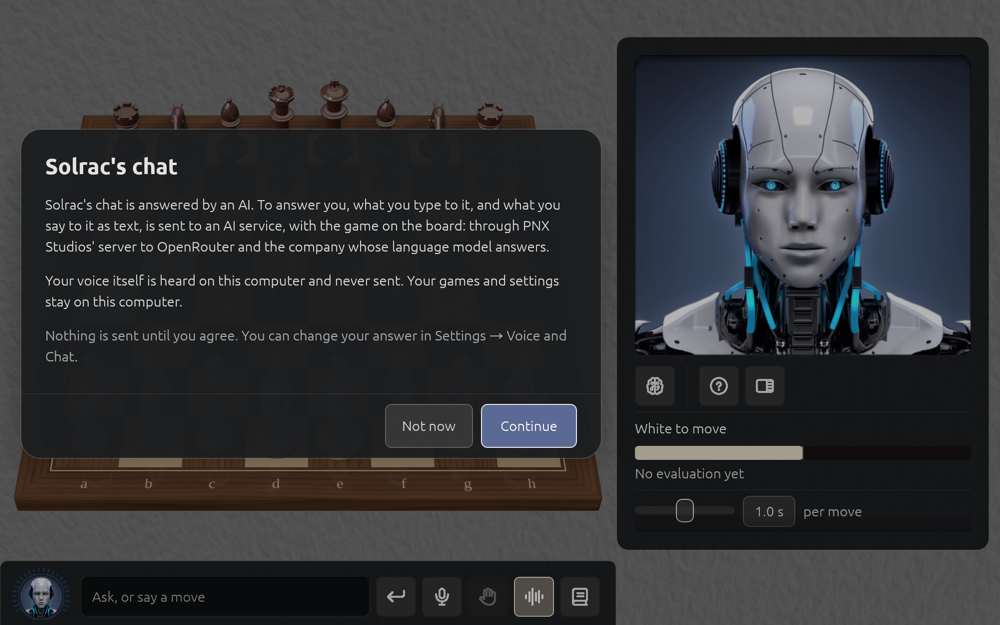
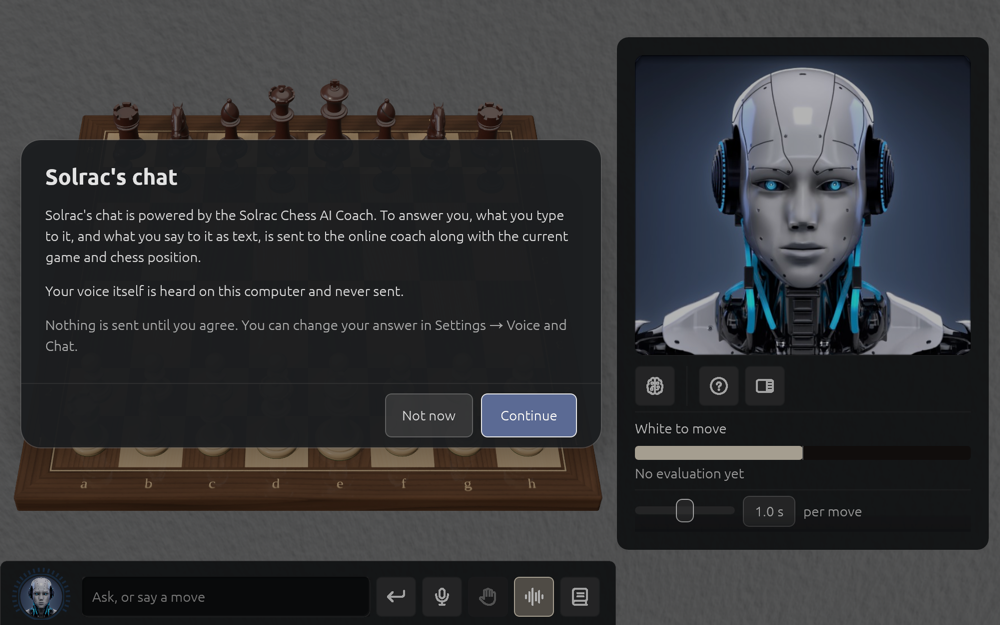
Chat notice: the Solrac Chess AI Coach, Settings' Online coach (#725)

Changed region(s): [[0.0, 0.1824, 0.62, 0.5776], [0.0, 0.608, 0.62, 0.76]]

diff --git a/book/src/preferences.md b/book/src/preferences.md
@@ -187,11 +187,12 @@ The same two switches are in the menu bar, under **Settings → Sound**.
 
 ![Settings, the Voice and Chat page](images/preferences-voice-and-chat.png)
 
-**AI service**
+**Online coach**
 
-- **Let the chat use an AI service**: what Solrac asked before your first chat message. What you
-  type or say to the chat (as text) goes, with the game, through PNX Studios' server to OpenRouter
-  and the company whose language model answers; your voice itself is heard here and never sent.
+- **Let the chat use the online coach**: what Solrac asked before your first chat message. What
+  you type or say to the chat (as text) goes, with the game, to the Solrac Chess AI Coach: through
+  PNX Studios' server to OpenRouter and the company whose language model answers. Your voice
+  itself is heard here and never sent.
   Off, the chat asks again before your next message is sent. See
   [The chat and voice](chat-and-voice.md).
 

diff --git a/book/src/chat-and-voice.md b/book/src/chat-and-voice.md
@@ -62,9 +62,10 @@ library and your settings stay on your Mac.
 
 ![Solrac's chat asks before your first message](images/ai-notice.png)
 
-Before your first message, Solrac says this and asks: **Continue** sends your message, and
+Before your first message, Solrac tells you that what you type or say goes to the online
+coach, the Solrac Chess AI Coach, and asks: **Continue** sends your message, and
 Solrac doesn't ask again; **Not now** (or Esc) sends nothing, and it asks again next time. You
-can change your answer under **Settings → Voice and Chat → AI service**.
+can change your answer under **Settings → Voice and Chat → Online coach**.
 
 ## Voice
 
